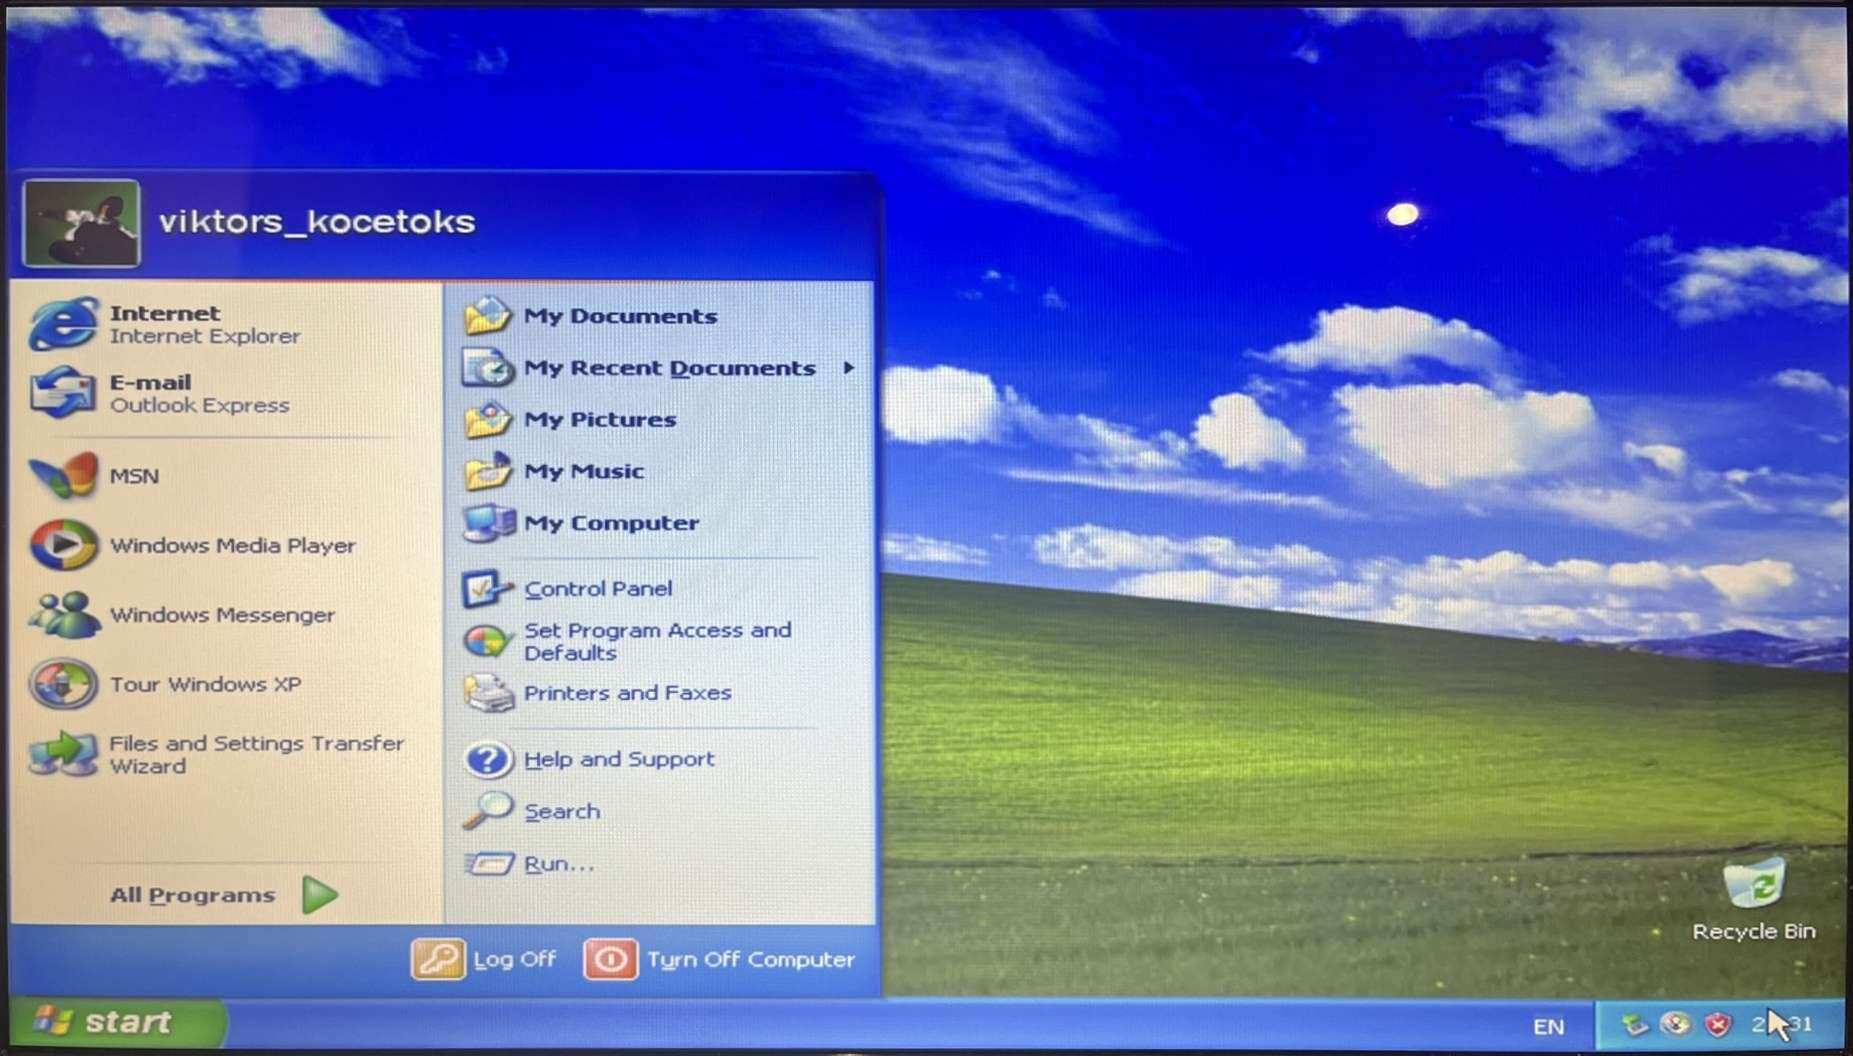
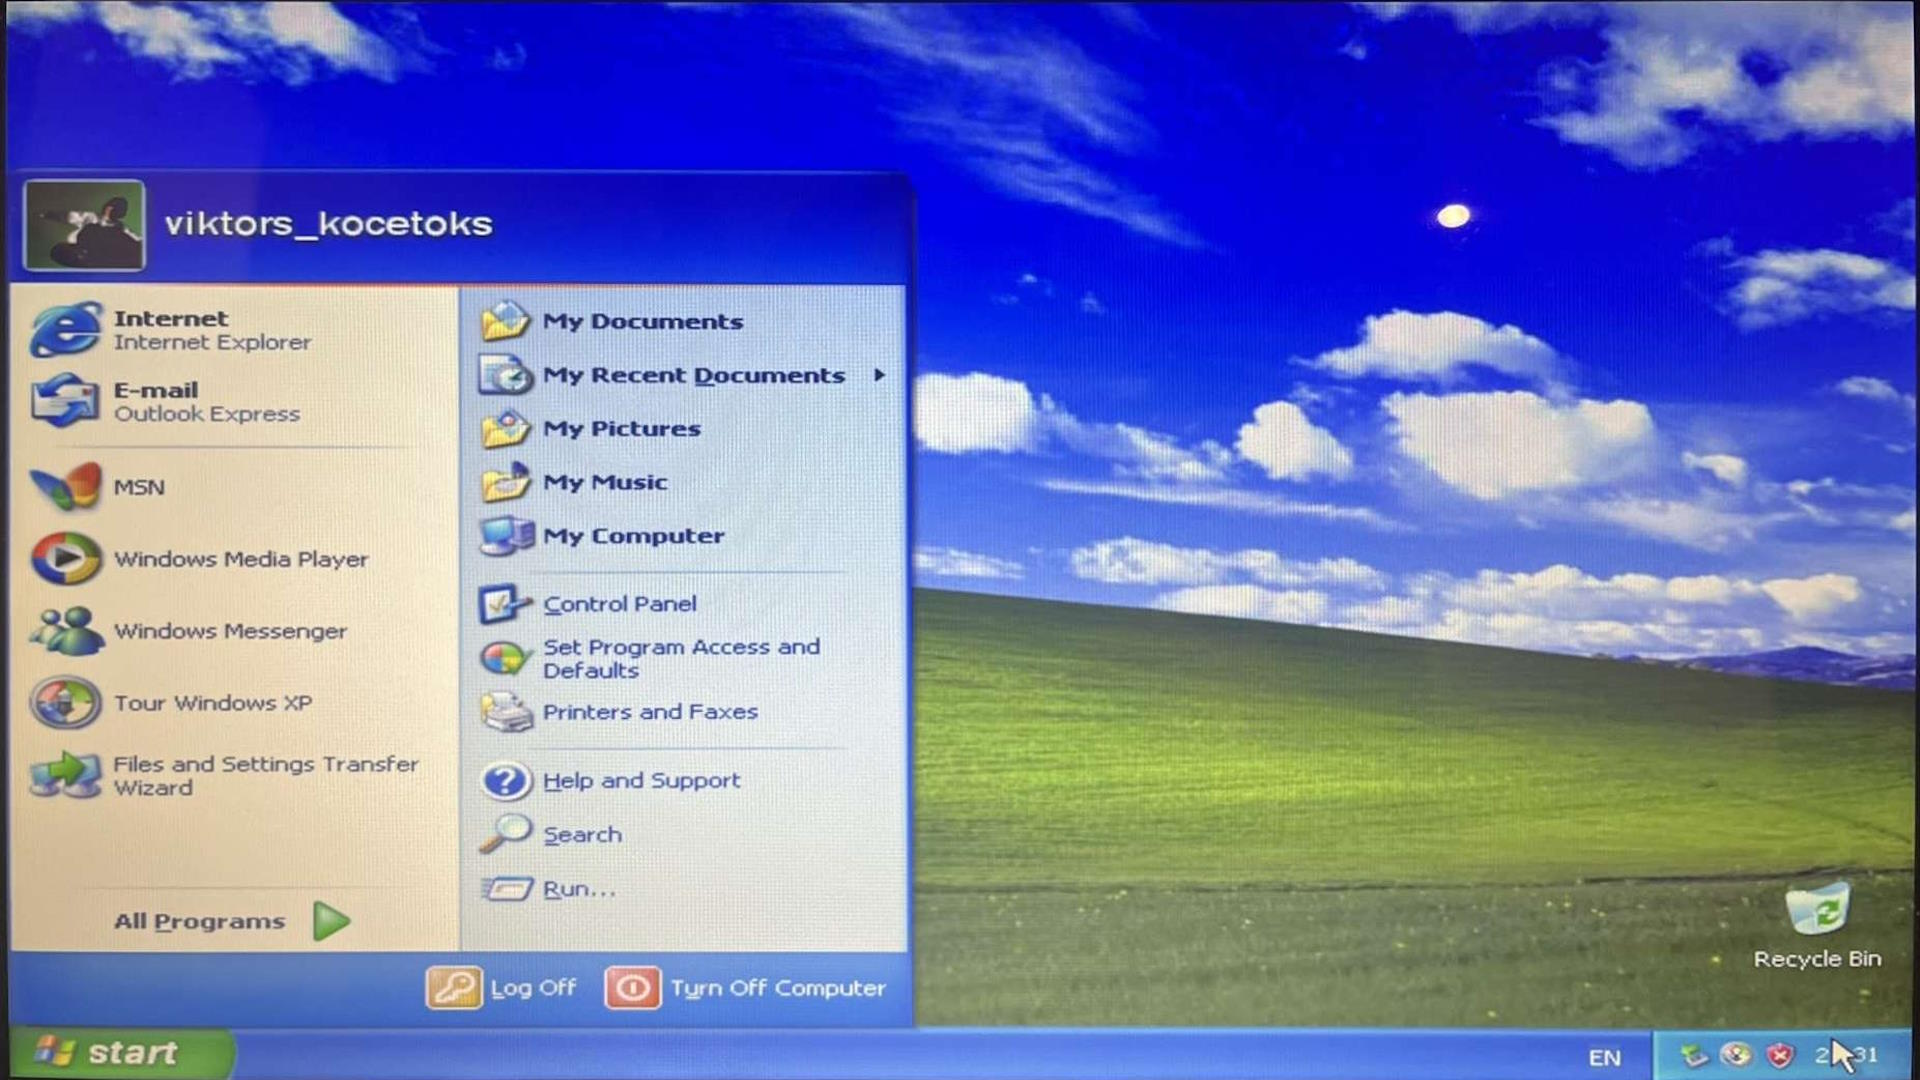
Image review and continued XP post

diff --git a/lv/xp_install.html b/lv/xp_install.html
@@ -23,7 +23,7 @@
     </div>
   </nav>
   <section class="container my-5 text-center" id="title">
-    <img class="rounded my-3 mx-auto d-block" alt="Windows XP instalācijas foto" src="../images/xp_install/windowsxp/IMG_4232.JPEG" width="480" height="320" style="max-width: 100%;">
+    <img class="rounded my-3 mx-auto d-block" alt="Windows XP instalācijas foto" src="../images/xp_install/windowsxp/IMG_4253.JPEG" width="480" height="320" style="max-width: 100%;">
     <h1>Windows XP instalācija</h1>
     <p class="lead text-muted">Cik tad grūti tas varētu būt?</p>
   </section>
@@ -42,7 +42,7 @@
         ka vajag pieņemt drastiskāku izvēli: instalēt 32-bitu Windows XP uz tā laika datora.
     </p>
   </section>
-    <section class="container my-5" id="computer">
+  <section class="container my-5" id="computer">
     <h3>Dell Inspiron 15 N5030</h3>
     <p>Izlaists nedaudz <a data-bs-toggle="offcanvas" href="#computerReleaseDate">pirms 2010. gada septembra</a>, šis klēpjdators 
         jau tajā laikā nebija pats spēcīgākais, bet tas mani neuztrauca, jo oriģināli tas nāca ar Windows 7, nevis XP, tāpēc domāju, 
@@ -267,7 +267,143 @@
   <hr>
   <section class="container my-5" id="osInstallation">
     <h3>Windows XP instalēšana</h3>
-  </section>
+        <div class="container">
+            <div class="row align-items-start">
+                <div class="col-md-4">
+                    <p>Datora ieslēgšanas laikā iestatot USB datu nesēju kā boot device, dators ielādējas Windows instalētājā. Sākumā izveido uz SSD jaunu partīciju kurā instalēt Windows un formatē to NTFS failu sistēmā.</p>
+                    <p>Pēc tā, Windows pārkopē failus un pārstartējas jau no lokālā cietā diska. Tagad sākas galvenā instalēšanas daļa.</p>
+                    <p>Pēc neilgas gaidīšanas (pateicoties SSD) atvērās valodu un reģionu logs, kurā iestatīju latviešu valodu un reģionu, kā arī pievienoju LV tastatūru.</p>
+                    <p>Tālāk, nākamajā logā ierakstīju savu lietotājvārdu, pēc tā, licenzes atslēgu. Tad datora nosaukumu, admina paroli un laika zonu.</p>
+                </div>
+                <div class="col-md-8">
+                    <div id="carouselOSInstallation" class="carousel slide">
+                        <div class="carousel-indicators">
+                            <button type="button" data-bs-target="#carouselOSInstallation" data-bs-slide-to="0" class="active" aria-current="true" aria-label="Slide 1"></button>
+                            <button type="button" data-bs-target="#carouselOSInstallation" data-bs-slide-to="1" aria-label="Slide 2"></button>
+                            <button type="button" data-bs-target="#carouselOSInstallation" data-bs-slide-to="2" aria-label="Slide 3"></button>
+                            <button type="button" data-bs-target="#carouselOSInstallation" data-bs-slide-to="3" aria-label="Slide 4"></button>
+                            <button type="button" data-bs-target="#carouselOSInstallation" data-bs-slide-to="4" aria-label="Slide 5"></button>
+                            <button type="button" data-bs-target="#carouselOSInstallation" data-bs-slide-to="5" aria-label="Slide 6"></button>
+                            <button type="button" data-bs-target="#carouselOSInstallation" data-bs-slide-to="6" aria-label="Slide 7"></button>
+                            <button type="button" data-bs-target="#carouselOSInstallation" data-bs-slide-to="7" aria-label="Slide 8"></button>
+                            <button type="button" data-bs-target="#carouselOSInstallation" data-bs-slide-to="8" aria-label="Slide 9"></button>
+                            <button type="button" data-bs-target="#carouselOSInstallation" data-bs-slide-to="9" aria-label="Slide 10"></button>
+                            <button type="button" data-bs-target="#carouselOSInstallation" data-bs-slide-to="10" aria-label="Slide 11"></button>
+                            <button type="button" data-bs-target="#carouselOSInstallation" data-bs-slide-to="11" aria-label="Slide 12"></button>
+                            <button type="button" data-bs-target="#carouselOSInstallation" data-bs-slide-to="12" aria-label="Slide 13"></button>
+                            <button type="button" data-bs-target="#carouselOSInstallation" data-bs-slide-to="13" aria-label="Slide 14"></button>
+                        </div>
+                        <div class="carousel-inner">
+                            <div class="carousel-item active">
+                                <img src="../images/xp_install/windowsxp/IMG_4227.JPEG" class="d-block w-100" alt="...">
+                            </div>
+                            <div class="carousel-item">
+                                <img src="../images/xp_install/windowsxp/IMG_4228.JPEG" class="d-block w-100" alt="...">
+                            </div>
+                            <div class="carousel-item">
+                                <img src="../images/xp_install/windowsxp/IMG_4229.JPEG" class="d-block w-100" alt="...">
+                            </div>
+                            <div class="carousel-item">
+                                <img src="../images/xp_install/windowsxp/IMG_4231.JPEG" class="d-block w-100" alt="...">
+                            </div>
+                            <div class="carousel-item">
+                                <img src="../images/xp_install/windowsxp/IMG_4234.JPEG" class="d-block w-100" alt="...">
+                            </div>
+                            <div class="carousel-item">
+                                <img src="../images/xp_install/windowsxp/IMG_4236.JPEG" class="d-block w-100" alt="...">
+                            </div>
+                            <div class="carousel-item">
+                                <img src="../images/xp_install/windowsxp/IMG_4238.JPEG" class="d-block w-100" alt="...">
+                            </div>
+                            <div class="carousel-item">
+                                <img src="../images/xp_install/windowsxp/IMG_4242.JPEG" class="d-block w-100" alt="...">
+                            </div>
+                            <div class="carousel-item">
+                                <img src="../images/xp_install/windowsxp/IMG_4244.JPEG" class="d-block w-100" alt="...">
+                            </div>
+                            <div class="carousel-item">
+                                <img src="../images/xp_install/windowsxp/IMG_4245.JPEG" class="d-block w-100" alt="...">
+                            </div>
+                            <div class="carousel-item">
+                                <img src="../images/xp_install/windowsxp/IMG_4247.JPEG" class="d-block w-100" alt="...">
+                            </div>
+                            <div class="carousel-item">
+                                <img src="../images/xp_install/windowsxp/IMG_4251.JPEG" class="d-block w-100" alt="...">
+                            </div>
+                            <div class="carousel-item">
+                                <img src="../images/xp_install/windowsxp/IMG_4253.JPEG" class="d-block w-100" alt="...">
+                            </div>
+                        </div>
+                        <button class="carousel-control-prev" type="button" data-bs-target="#carouselOSInstallation" data-bs-slide="prev">
+                            <span class="carousel-control-prev-icon" aria-hidden="true"></span>
+                            <span class="visually-hidden">Pagājušais</span>
+                        </button>
+                        <button class="carousel-control-next" type="button" data-bs-target="#carouselOSInstallation" data-bs-slide="next">
+                            <span class="carousel-control-next-icon" aria-hidden="true"></span>
+                            <span class="visually-hidden">Nākamais</span>
+                        </button>
+                    </div>
+                </div>
+            </div>
+        </div>
+    </section>
+  <section class="container my-5" id="osSetup">
+    <h3>XP instalēšana pt2</h3>
+        <div class="container">
+            <div class="row align-items-start">
+                <div class="col-md-8">
+                    <div id="carouselOSSetup" class="carousel slide">
+                        <div class="carousel-indicators">
+                            <button type="button" data-bs-target="#carouselOSSetup" data-bs-slide-to="0" class="active" aria-current="true" aria-label="Slide 1"></button>
+                            <button type="button" data-bs-target="#carouselOSSetup" data-bs-slide-to="1" aria-label="Slide 2"></button>
+                            <button type="button" data-bs-target="#carouselOSSetup" data-bs-slide-to="2" aria-label="Slide 3"></button>
+                            <button type="button" data-bs-target="#carouselOSSetup" data-bs-slide-to="3" aria-label="Slide 4"></button>
+                            <button type="button" data-bs-target="#carouselOSSetup" data-bs-slide-to="4" aria-label="Slide 5"></button>
+                            <button type="button" data-bs-target="#carouselOSSetup" data-bs-slide-to="5" aria-label="Slide 6"></button>
+                            <button type="button" data-bs-target="#carouselOSSetup" data-bs-slide-to="6" aria-label="Slide 7"></button>
+                        </div>
+                        <div class="carousel-inner">
+                            <div class="carousel-item active">
+                                <img src="../images/xp_install/windowsxp/IMG_4262.JPEG" class="d-block w-100" alt="...">
+                            </div>
+                            <div class="carousel-item">
+                                <img src="../images/xp_install/windowsxp/IMG_4263.JPEG" class="d-block w-100" alt="...">
+                            </div>
+                            <div class="carousel-item">
+                                <img src="../images/xp_install/windowsxp/IMG_4264.JPEG" class="d-block w-100" alt="...">
+                            </div>
+                            <div class="carousel-item">
+                                <img src="../images/xp_install/windowsxp/IMG_4265.JPEG" class="d-block w-100" alt="...">
+                            </div>
+                            <div class="carousel-item">
+                                <img src="../images/xp_install/windowsxp/IMG_4266.JPEG" class="d-block w-100" alt="...">
+                            </div>
+                            <div class="carousel-item">
+                                <img src="../images/xp_install/windowsxp/IMG_4267.JPEG" class="d-block w-100" alt="...">
+                            </div>
+                            <div class="carousel-item">
+                                <img src="../images/xp_install/windowsxp/IMG_4269.JPEG" class="d-block w-100" alt="...">
+                            </div>
+                        </div>
+                        <button class="carousel-control-prev" type="button" data-bs-target="#carouselOSSetup" data-bs-slide="prev">
+                            <span class="carousel-control-prev-icon" aria-hidden="true"></span>
+                            <span class="visually-hidden">Pagājušais</span>
+                        </button>
+                        <button class="carousel-control-next" type="button" data-bs-target="#carouselOSSetup" data-bs-slide="next">
+                            <span class="carousel-control-next-icon" aria-hidden="true"></span>
+                            <span class="visually-hidden">Nākamais</span>
+                        </button>
+                    </div>
+                </div>
+                <div class="col-md-4">
+                    <p>Datora ieslēgšanas laikā iestatot USB datu nesēju kā boot device, dators ielādējas Windows instalētājā. Sākumā izveido uz SSD jaunu partīciju kurā instalēt Windows un formatē to NTFS failu sistēmā.</p>
+                    <p>Pēc tā, Windows pārkopē failus un pārstartējas jau no lokālā cietā diska. Tagad sākas galvenā instalēšanas daļa.</p>
+                    <p>Pēc neilgas gaidīšanas (pateicoties SSD) atvērās valodu un reģionu logs, kurā iestatīju latviešu valodu un reģionu, kā arī pievienoju LV tastatūru.</p>
+                    <p>Tālāk, nākamajā logā ierakstīju savu lietotājvārdu, pēc tā, licenzes atslēgu. Tad datora nosaukumu, admina paroli un laika zonu.</p>
+                </div>
+            </div>
+        </div>
+    </section>
 
   <nav class="navbar navbar-expand-lg navbar-dark bg-secondary-subtle justify-content-center">
     <span class="navbar-text text-light">© 2025 Viktors Valters Kočetoks. All rights reserved.</span>

diff --git a/index.html b/index.html
@@ -34,7 +34,7 @@
       <div class="row g-0">
         <div class="col-md-4 card text-center bg-secondary-subtle">
           <a href="lv/xp_install.html" class="text-decoration-none text-body">
-            <img class="img-fluid mx-0 card-img" alt="Project 1" src="images/xp_install/windowsxp/IMG_4232.JPEG">
+            <img class="img-fluid mx-0 card-img" alt="Project 1" src="images/xp_install/windowsxp/IMG_4253.JPEG">
             <div class="card-body">
               <h5 class="card-title">Windows XP installation</h5>
               <p class="card-text text-muted">A homework task I worked on.</p>
